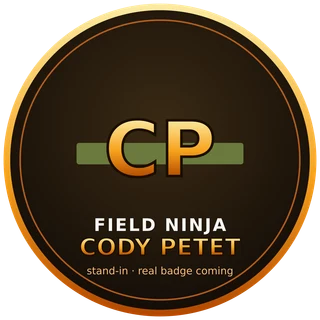
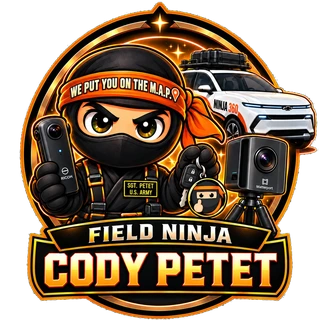
Score: miles-driven scoreboard + drive map, ring polish, Cody's real badge (#97)
* Score: polish the Verizon ring to the redesign mockup, add per-crew stat cards

Pct now sits on a solid pill straddling the ring's bottom edge, and the
DONE/LEFT/TOTAL number stack gets a clearer size hierarchy (TOTAL dims out)
to match the mockup Tim shared. Below it, a new player card per crew member
shows stops shot and points banked, pulled straight from the same lock
ledger everything else on Score reads (l.by / l.with) — no mileage, that
stays in QuickBooks per Tim's earlier call.

Claude-Session: https://claude.ai/code/session_01GR6PfHxLAswnFPjEWQSbFG

* Score: real miles-driven scoreboard, players + drive map, rest tucked under an accordion

Replaces the points-banked player cards with real per-crew mileage — Tim's
total miles driven, Cody's (and anyone else's) miles riding along — computed
the same way the planner always has: simulate() over the stops actually shot
that day, start to end. No estimating, no QuickBooks overlap.

Below that, a snapshot of this week's drive: a route map (polyline, numbered
pins, home marker) plus a day-by-day mileage breakdown. Everything that used
to open the Score tab — weekly target, belt, records, the full job table,
CSV — now lives one tap down under "Points & job list", closed by default.

Keeps the ring/legend polish from the last pass (pct pill on the ring,
DONE/LEFT/TOTAL hierarchy) rather than reverting it.

Claude-Session: https://claude.ai/code/session_01GR6PfHxLAswnFPjEWQSbFG
[…]

diff --git a/public/verizon.html b/public/verizon.html
@@ -353,10 +353,15 @@ table.pl [data-shot]:not(.go){border-color:var(--accent);color:var(--accent)}
 .vz{border-top:3px solid var(--vz)}
 .vz .lab{color:var(--vz)}
 .vzrow{display:flex;align-items:center;justify-content:center;gap:16px;margin:8px 0 2px}
-.vzpie{width:144px;height:144px;flex:0 0 auto;filter:drop-shadow(0 1px 2px rgba(0,0,0,.12))}
-.vzsb{display:grid;grid-template-columns:auto auto;column-gap:10px;row-gap:1px;align-items:baseline;text-align:left}
-.vzsb b{font-size:30px;font-weight:700;letter-spacing:-1px;line-height:1.05;color:var(--ink)}
+.vzpiewrap{position:relative;flex:0 0 auto}
+.vzpie{width:144px;height:144px;display:block;filter:drop-shadow(0 1px 2px rgba(0,0,0,.12))}
+.vzpct{position:absolute;left:50%;bottom:-5px;transform:translateX(-50%);
+  background:var(--vz);color:#fff;font:800 13px "IBM Plex Mono",ui-monospace,monospace;letter-spacing:-.2px;
+  padding:3px 11px;border-radius:999px;box-shadow:0 2px 6px rgba(0,0,0,.28);border:2px solid var(--surf)}
+.vzsb{display:grid;grid-template-columns:auto auto;column-gap:10px;row-gap:2px;align-items:baseline;text-align:left}
+.vzsb b{font-size:34px;font-weight:700;letter-spacing:-1px;line-height:1.05;color:var(--ink)}
 .vzsb b.red{font-size:48px;color:var(--vz);letter-spacing:-2px}
+.vzsb b.dim{font-size:22px;color:var(--ink3)}
 .vzsb span{font-size:11px;font-weight:600;letter-spacing:1.4px;text-transform:uppercase;color:var(--ink2)}
 .vzleg{display:flex;justify-content:center;flex-wrap:wrap;gap:4px 16px;margin-top:10px;font-size:15px;color:var(--ink2)}
 .vzleg b{color:var(--ink);font-weight:700}
@@ -500,6 +505,35 @@ table.pl [data-shot]:not(.go){border-color:var(--accent);color:var(--accent)}
 @keyframes pop{from{opacity:0;transform:translate(-50%,6px)}to{opacity:1;transform:translate(-50%,0)}}
 @keyframes up{from{transform:translateY(30px);opacity:.4}to{transform:translateY(0);opacity:1}}
 @keyframes fade{from{opacity:0}to{opacity:1}}
+/* scoreboard: players + drive */
+.plyrs{display:grid;grid-template-columns:repeat(auto-fit,minmax(250px,1fr));gap:10px;margin-bottom:10px}
+.plyr{background:var(--surf);border:1px solid var(--line);border-radius:14px;padding:12px 14px;display:flex;gap:14px;align-items:center;box-shadow:var(--shadow)}
+.plyr img{width:88px;height:88px;flex:none;object-fit:contain;filter:drop-shadow(0 4px 8px rgba(0,0,0,.3))}
+.plyr .pnm{font-size:17px;font-weight:800}
+.plyr .pnm small{font-size:10px;font-weight:700;letter-spacing:.8px;text-transform:uppercase;color:var(--ink3);margin-left:4px}
+.plyr .lab{margin-top:6px}
+.plyr .pv{font-size:34px;font-weight:700;line-height:1.05;color:var(--pc);letter-spacing:-1px}
+.plyr .pwk{font-size:12.5px;color:var(--ink2)} .plyr .pwk b{color:var(--ink)}
+.drv{border-top:3px solid var(--accent)}
+.drvh{display:flex;justify-content:space-between;align-items:baseline;gap:8px;flex-wrap:wrap;margin-bottom:8px}
+.drvh .lab{color:var(--accent)}
+.drvt{font-size:14px;color:var(--ink2);font-weight:600} .drvt b{font-size:28px;color:var(--accent)}
+.dmap{background:var(--surf2);border-radius:10px;overflow:hidden}
+.dmap svg{display:block;width:100%;height:auto}
+.dmap .dpin{cursor:pointer}
+.dmap .dnum{font:700 14px "IBM Plex Mono",ui-monospace,monospace;fill:#fff}
+.dmap .dtown{font:600 19px Archivo,sans-serif;fill:var(--ink);stroke:var(--surf2);stroke-width:5px;paint-order:stroke}
+.drvdays{display:grid;grid-template-columns:repeat(auto-fit,minmax(200px,1fr));gap:8px;margin-top:10px}
+.drvdays>div{display:grid;grid-template-columns:auto 1fr auto;gap:10px;align-items:center;border:1px solid var(--line);border-radius:10px;padding:8px 11px}
+.drvdays i{width:20px;height:5px;border-radius:3px}
+.drvdays span{display:flex;flex-direction:column;font-size:13.5px} .drvdays small{color:var(--ink3);font-size:11.5px}
+.drvdays>div>b{font-size:17px}
+.sbmore{margin:14px 0 4px}
+.sbmore>summary{cursor:pointer;list-style:none;border:1px solid var(--line2);border-radius:10px;padding:11px 14px;font-weight:600;font-size:13.5px;color:var(--ink2);background:var(--surf2)}
+.sbmore>summary::-webkit-details-marker{display:none}
+.sbmore>summary::after{content:" ▾";color:var(--ink3)}
+.sbmore[open]>summary{margin-bottom:10px}
+.sbmore[open]>summary::after{content:" ▴"}
 </style>
 
 <header><div class="wrap"><div class="hrow">
@@ -2726,7 +2760,7 @@ function roadStats(){
   return {days:days.size, cities:cities.size, states:states.size,
     cityList:[...cities].sort(), stateList:[...states].sort()};
 }
-function renderBoard(){
+function renderBoardMore(){
   const now=new Date(), ws=weekStart(now), we=addDays(ws,6);
   const locks=allLocks();
   const earnedWeek=ptsBetween(ws,we);
@@ -2766,8 +2800,7 @@ function renderBoard(){
     : openJobs.map(j=>j.id);
   const dayOf={}; S.days.forEach((d,i)=>d.ids.forEach(id=>dayOf[id]=d.date||('Day '+(i+1))));
 
-  $('#s-board').innerHTML=`
-    ${verizonTotal()}
+  $('#sbMore').innerHTML=`
     <div class="sb-hero card">
       <div class="lab">This week &middot; ${ws.toLocaleDateString(undefined,{month:'short',day:'numeric'})}&ndash;${we.toLocaleDateString(undefined,{month:'short',day:'numeric'})}</div>
       <div class="sb-big mono">${fmt(earnedWeek)}</div>
@@ -2871,6 +2904,91 @@ function renderBoard(){
   $$('#s-board [data-info],#s-board [data-note]').forEach(b=>b.onclick=()=>jobSheet(b.dataset.info||b.dataset.note));
   wireShot('#s-board');
   $('#csvBtn').onclick=doCsv;
+}
+
+/* ---------- the scoreboard: the ninja, the players, the drive ----------
+   Score opens on three things only: the Verizon ninja (how many done / left), the players
+   (miles driven, miles with each crew mate) and a snapshot of this week's drive. Everything
+   else — points, belts, records, the job list, CSV — sits one tap down under "Points & job list".
+   Miles are the day as driven: start → the stops that were shot, in plan order → end,
+   priced with the same mi() / ROAD factor the planner uses. A day with nothing shot drove nowhere. */
+let BMORE=false;
+const DRIVE_COL=['#F4801F','#CD040B','#3B82D6','#2C9B6A','#8B2FC9','#C9A227','#6B6058'];
+function drivenDays(){
+  return S.days.filter(d=>d.date).map(d=>{
+    const ids=d.ids.filter(id=>BY[id]&&!BY[id].wp&&shot(id));
+    if(!ids.length)return null;
+    const s=simulate(Object.assign({},d,{ids,allLive:true}));
+    const mates=new Set(); if(d.crew&&CREW[d.crew])mates.add(d.crew);
+    ids.forEach(id=>{const l=lockOf(id); if(l&&l.with&&CREW[l.with])mates.add(l.with)});
+    return {date:d.date,day:d,ids,miles:s.miles,mates};
+  }).filter(Boolean).sort((a,b)=>a.date.localeCompare(b.date));
+}
+function driveMap(days){
+  if(!days.length)return '';
+  const W=600,H=420,pad=54, k=Math.cos(39.5*Math.PI/180);
+  const pts=[]; days.forEach(d=>{pts.push(placeLL(d.day.startKey),placeLL(d.day.endKey)); d.ids.forEach(id=>pts.push(LL(BY[id])))});
+  const xs=pts.map(p=>p[1]*k), ys=pts.map(p=>p[0]);
+  const x0=Math.min(...xs),x1=Math.max(...xs),y0=Math.min(...ys),y1=Math.max(...ys);
+  const sc=Math.min((W-2*pad-90)/Math.max(.05,x1-x0),(H-2*pad)/Math.max(.05,y1-y0));
+  const ox=(W-(x1-x0)*sc)/2, oy=(H-(y1-y0)*sc)/2;
+  const P=p=>[+(ox+(p[1]*k-x0)*sc).toFixed(1), +(oy+(y1-p[0])*sc).toFixed(1)];
+  let lines='',pins='',ends='',n=0; const named=new Set(), endSeen=new Set(), pl=[];
+  const towns=new Set(); days.forEach(d=>d.ids.forEach(id=>towns.add(BY[id].c)));
+  const label=towns.size<=10;
+  days.forEach((d,di)=>{const col=DRIVE_COL[di%DRIVE_COL.length];
+    const route=[placeLL(d.day.startKey),...d.ids.map(id=>LL(BY[id])),placeLL(d.day.endKey)].map(P);
+    lines+=`<polyline points="${route.map(p=>p.join(',')).join(' ')}" fill="none" stroke="${col}" stroke-width="5" stroke-linejoin="round" stroke-linecap="round" opacity=".9"/>`;
+    d.ids.forEach(id=>{n++; const [x,y]=P(LL(BY[id]));
+      // stops in the same strip mall share one pin: "1–2"
+      const near=pl.find(q=>Math.hypot(q.x-x,q.y-y)<16);
+      if(near)near.nums.push(n); else pl.push({x,y,col,id,nums:[n]})});
+    [d.day.startKey,d.day.endKey].forEach(key=>{ if(endSeen.has(key))return; endSeen.add(key);
+      const [x,y]=P(placeLL(key));
+      ends+= key==='home'
+        ? `<image href="/assets/ninja-mark.png" x="${x-30}" y="${y-30}" width="60" height="60"/><text class="dtown" x="${x}" y="${y+46}" text-anchor="middle">Home</text>`
+        : `<circle cx="${x}" cy="${y}" r="10" fill="#2b2e36" stroke="#fff" stroke-width="3"/>`});
+  });
+  pl.forEach(q=>{const j=BY[q.id], right=q.x<W-190, t=q.nums.length>1?q.nums[0]+'–'+q.nums[q.nums.length-1]:q.nums[0];
+    pins+=`<g class="dpin" data-info="${q.id}"><path d="M${q.x} ${q.y} l-14 -22 a17 17 0 1 1 28 0 z" fill="${q.col}" stroke="#fff" stroke-width="2"/>
+      <text x="${q.x}" y="${q.y-25}" text-anchor="middle" class="dnum"${String(t).length>2?' style="font-size:10px"':''}>${t}</text>
+      ${label&&!named.has(j.c)?`<text class="dtown" x="${right?q.x+20:q.x-20}" y="${q.y-22}" text-anchor="${right?'start':'end'}">${escHTML(j.c)}</text>`:''}</g>`;
+    named.add(j.c)});
+  return `<div class="dmap"><svg viewBox="0 0 ${W} ${H}" role="img" aria-label="Map of the drive">${lines}${ends}${pins}</svg></div>`;
+}
+function renderBoard(){
+  const now=new Date(), ws=weekStart(now), A=ymd(ws), B=ymd(addDays(ws,6));
+  const driven=drivenDays(), week=driven.filter(d=>d.date>=A&&d.date<=B);
+  // the snapshot is this week's drive; before anything is shot this week, the last road day
+  const snap=week.length?week:driven.slice(-1);
+  const sum=(arr,f)=>arr.reduce((t,d)=>t+(f?(f(d)?d.miles:0):d.miles),0);
+  const mi0=n=>Math.round(n).toLocaleString();
+  const mates=Object.keys(CREW).filter(id=>id!=='tim'&&driven.some(d=>d.mates.has(id)));
+  if(!mates.includes('cody'))mates.unshift('cody');   // Cody always has a seat on the board
+  const player=(id,lab,all,wk)=>`<article class="plyr" style="--pc:${id==='tim'?'var(--accent)':id==='cody'?'#3B82D6':'var(--money)'}">
+      <img src="${badgeOf(id)}" alt="${escHTML(CREW[id].name)}">
+      <div><div class="pnm">${escHTML(CREW[id].short)} <small>${escHTML(CREW[id].role.split('·').pop().trim())}</small></div>
+        <div class="lab">${lab}</div><div class="pv mono">${mi0(all)}</div>
+        <div class="pwk">this week <b class="mono">${mi0(wk)}</b> mi</div></div></article>`;
+  const fmtD=k=>new Date(k+'T12:00:00').toLocaleDateString(undefined,{weekday:'short',month:'short',day:'numeric'});
+  const snapMates=new Set(); snap.forEach(d=>d.mates.forEach(m=>snapMates.add(m)));
+  $('#s-board').innerHTML=`
+    ${verizonTotal()}
+    <section class="plyrs">
+      ${player('tim','Miles driven',sum(driven),sum(week))}
+      ${mates.map(id=>player(id,'Miles with '+CREW[id].short,sum(driven,d=>d.mates.has(id)),sum(week,d=>d.mates.has(id)))).join('')}
+    </section>
+    ${snap.length?`<section class="card drv">
+      <div class="drvh"><span class="lab">The drive &middot; ${week.length?'this week':fmtD(snap[0].date)}${snapMates.size?' &middot; with '+[...snapMates].map(m=>CREW[m].short).join(' &amp; '):''}</span>
+        <span class="drvt"><b class="mono">${mi0(sum(snap))}</b> mi</span></div>
+      ${driveMap(snap)}
+      <div class="drvdays">${snap.map((d,i)=>`<div><i style="background:${DRIVE_COL[i%DRIVE_COL.length]}"></i>
+        <span><b>${fmtD(d.date)}</b><small>${d.ids.length} stop${d.ids.length===1?'':'s'}</small></span><b class="mono">${mi0(d.miles)} mi</b></div>`).join('')}</div>
+    </section>`:`<div class="card empty">No drive yet &mdash; shoot a stop and the map fills in.</div>`}
+    <details class="sbmore" id="sbMoreWrap"${BMORE?' open':''}><summary>Points &amp; job list</summary><div id="sbMore"></div></details>`;
+  $('#sbMoreWrap').ontoggle=e=>{BMORE=e.target.open};
+  renderBoardMore();
+  $$('#s-board .dpin').forEach(g=>g.onclick=()=>jobSheet(g.dataset.info));
 }
 /* ================= SHELL ================= */
 let ready=false;
@@ -3438,13 +3556,13 @@ function verizonTotal(){
       <circle cx="${C}" cy="${C}" r="${R}" fill="none" stroke="var(--ink)" stroke-opacity=".28" stroke-width="2"/>${rim(fd)}${label}</svg>`;
   return `<div class="sb-hero card vz" id="vzTotal">
       <div class="lab">Verizon &middot; scoreboard</div>
-      <div class="vzrow">${pie}
+      <div class="vzrow"><div class="vzpiewrap">${pie}<div class="vzpct">${pct}%</div></div>
         <div class="vzsb mono">
-          <b class="red" id="vzDone">${done}</b><span>shot</span>
+          <b class="red" id="vzDone">${done}</b><span>done</span>
           <b id="vzLeft">${left}</b><span>left</span>
-          <b id="vzAll">${total}</b><span>total</span>
+          <b class="dim" id="vzAll">${total}</b><span>total</span>
         </div></div>
-      <div class="vzleg"><span><i style="background:var(--vz);border-color:var(--vz)"></i><b>${pct}%</b> shot</span>${hold?'<span><i style="background:var(--ink2)"></i><b id="vzHold">'+hold+'</b> on hold</span>':''}<span><i style="background:var(--vz-fog)"></i><b>${fmt(leftPts)}</b> to go</span></div>
+      <div class="vzleg"><span><i style="background:var(--vz);border-color:var(--vz)"></i><b>${pct}%</b> done</span>${hold?'<span><i style="background:var(--ink2)"></i><b id="vzHold">'+hold+'</b> on hold</span>':''}<span><i style="background:var(--vz-fog)"></i><b>${fmt(leftPts)}</b> to go</span></div>
       ${owed?'<div class="vzowed"><b>'+owed+'</b> go-back'+(owed===1?'':'s')+' owed</div>':''}
     </div>`;
 }
